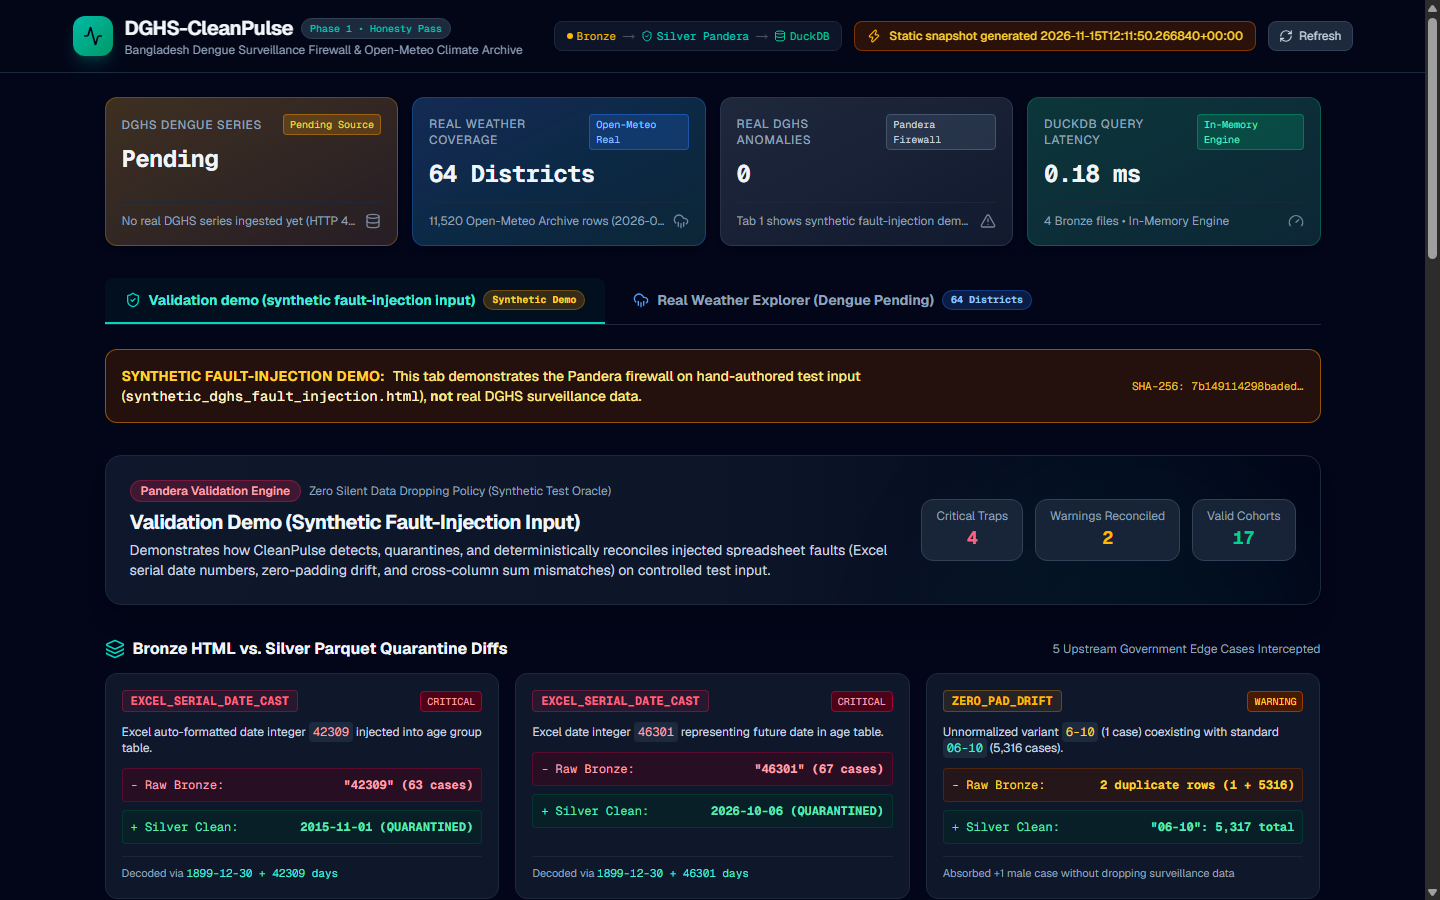
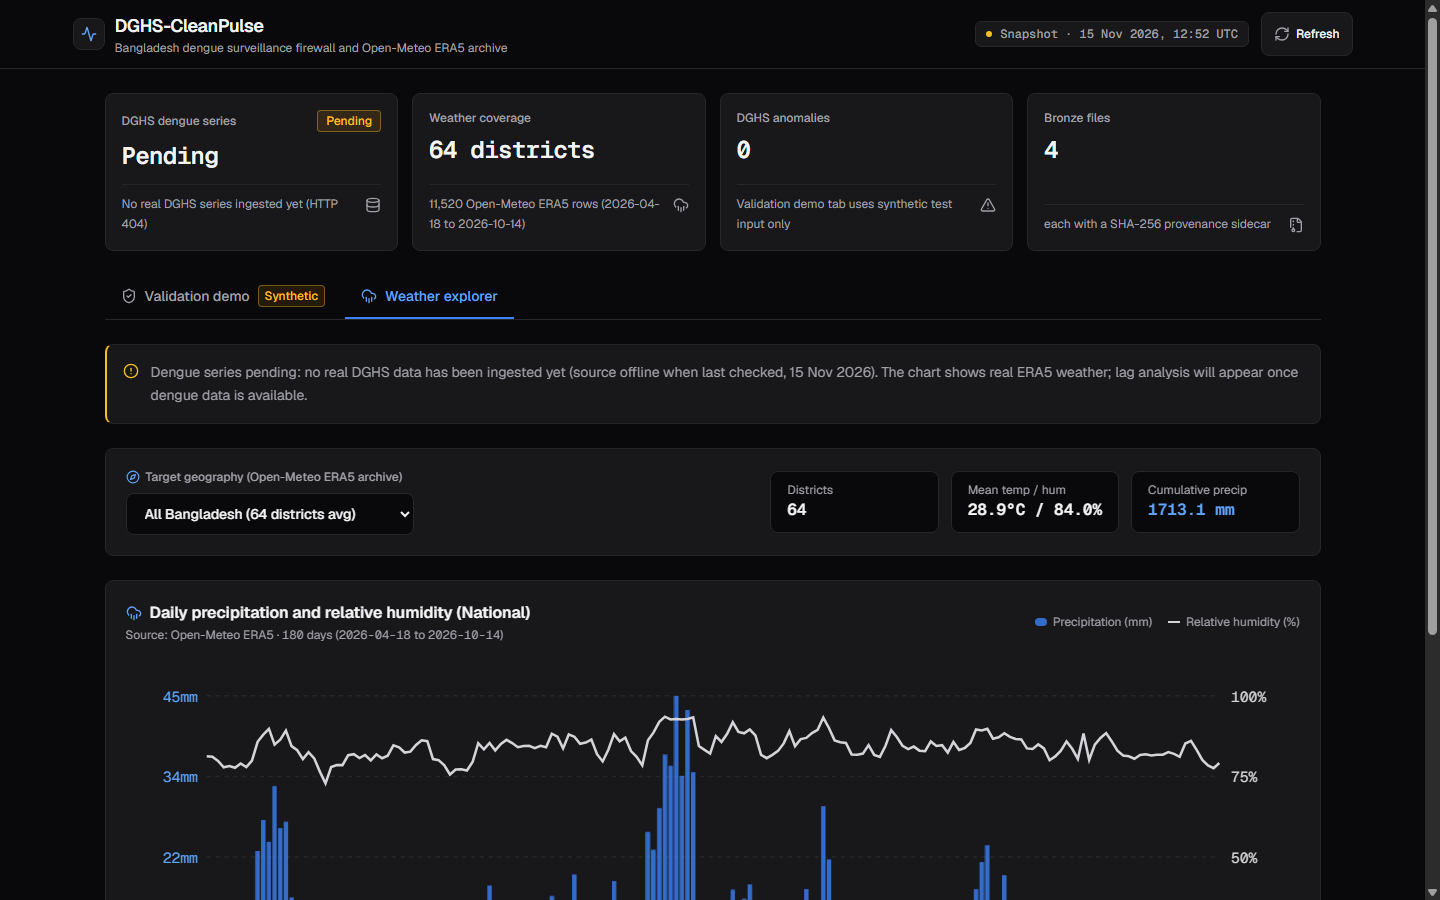
docs: update dashboard screenshots after UI polish

diff --git a/README.md b/README.md
@@ -10,15 +10,20 @@
 
 ## Visual Overview
 
-### Tab 1: Validation Demo (Synthetic Fault-Injection Input)
+### Validation demo (synthetic input)
 *Demonstrates the Pandera validation firewall on the hand-authored `backend/tests/fixtures/synthetic_dghs_fault_injection.html` test input (not real DGHS data).*
 
-![Tab 1: Validation Demo](docs/dashboard_tab1.png)
+![Validation demo (synthetic input)](docs/dashboard_tab1.png)
 
-### Tab 2: Real Weather Explorer (Dengue Pending)
+### Weather explorer
 *Displays the 64-district Open-Meteo Historical Weather API series (`2026-04-18` to `2026-10-14`) with a visible notice that the dengue time series and lag correlation are pending a real DGHS source.*
 
-![Tab 2: Real Weather Explorer](docs/dashboard_tab2.png)
+![Weather explorer](docs/dashboard_tab2.png)
+
+### Mobile view (Weather explorer at 375px)
+*Responsive 375px mobile layout of the Weather explorer tab.*
+
+![Mobile view: Weather explorer](docs/dashboard_mobile.png)
 
 ---
 
